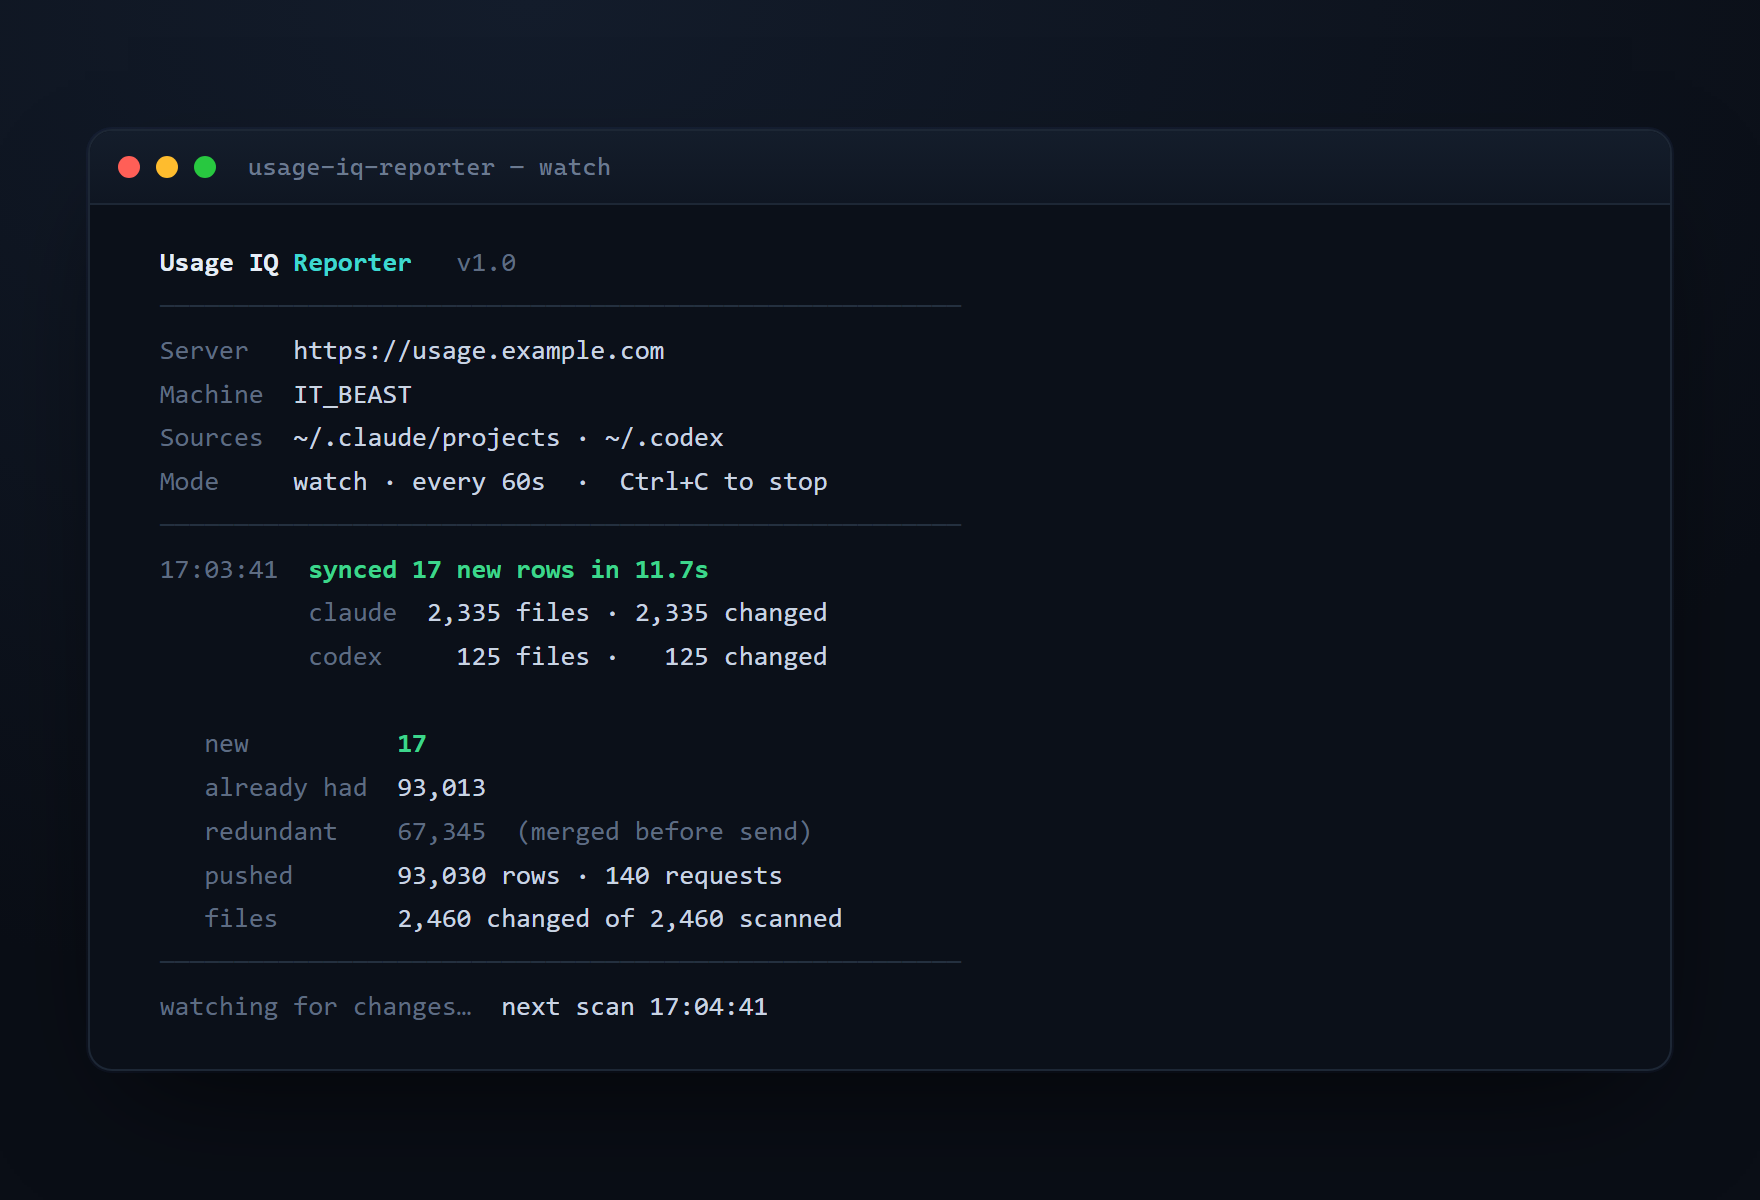
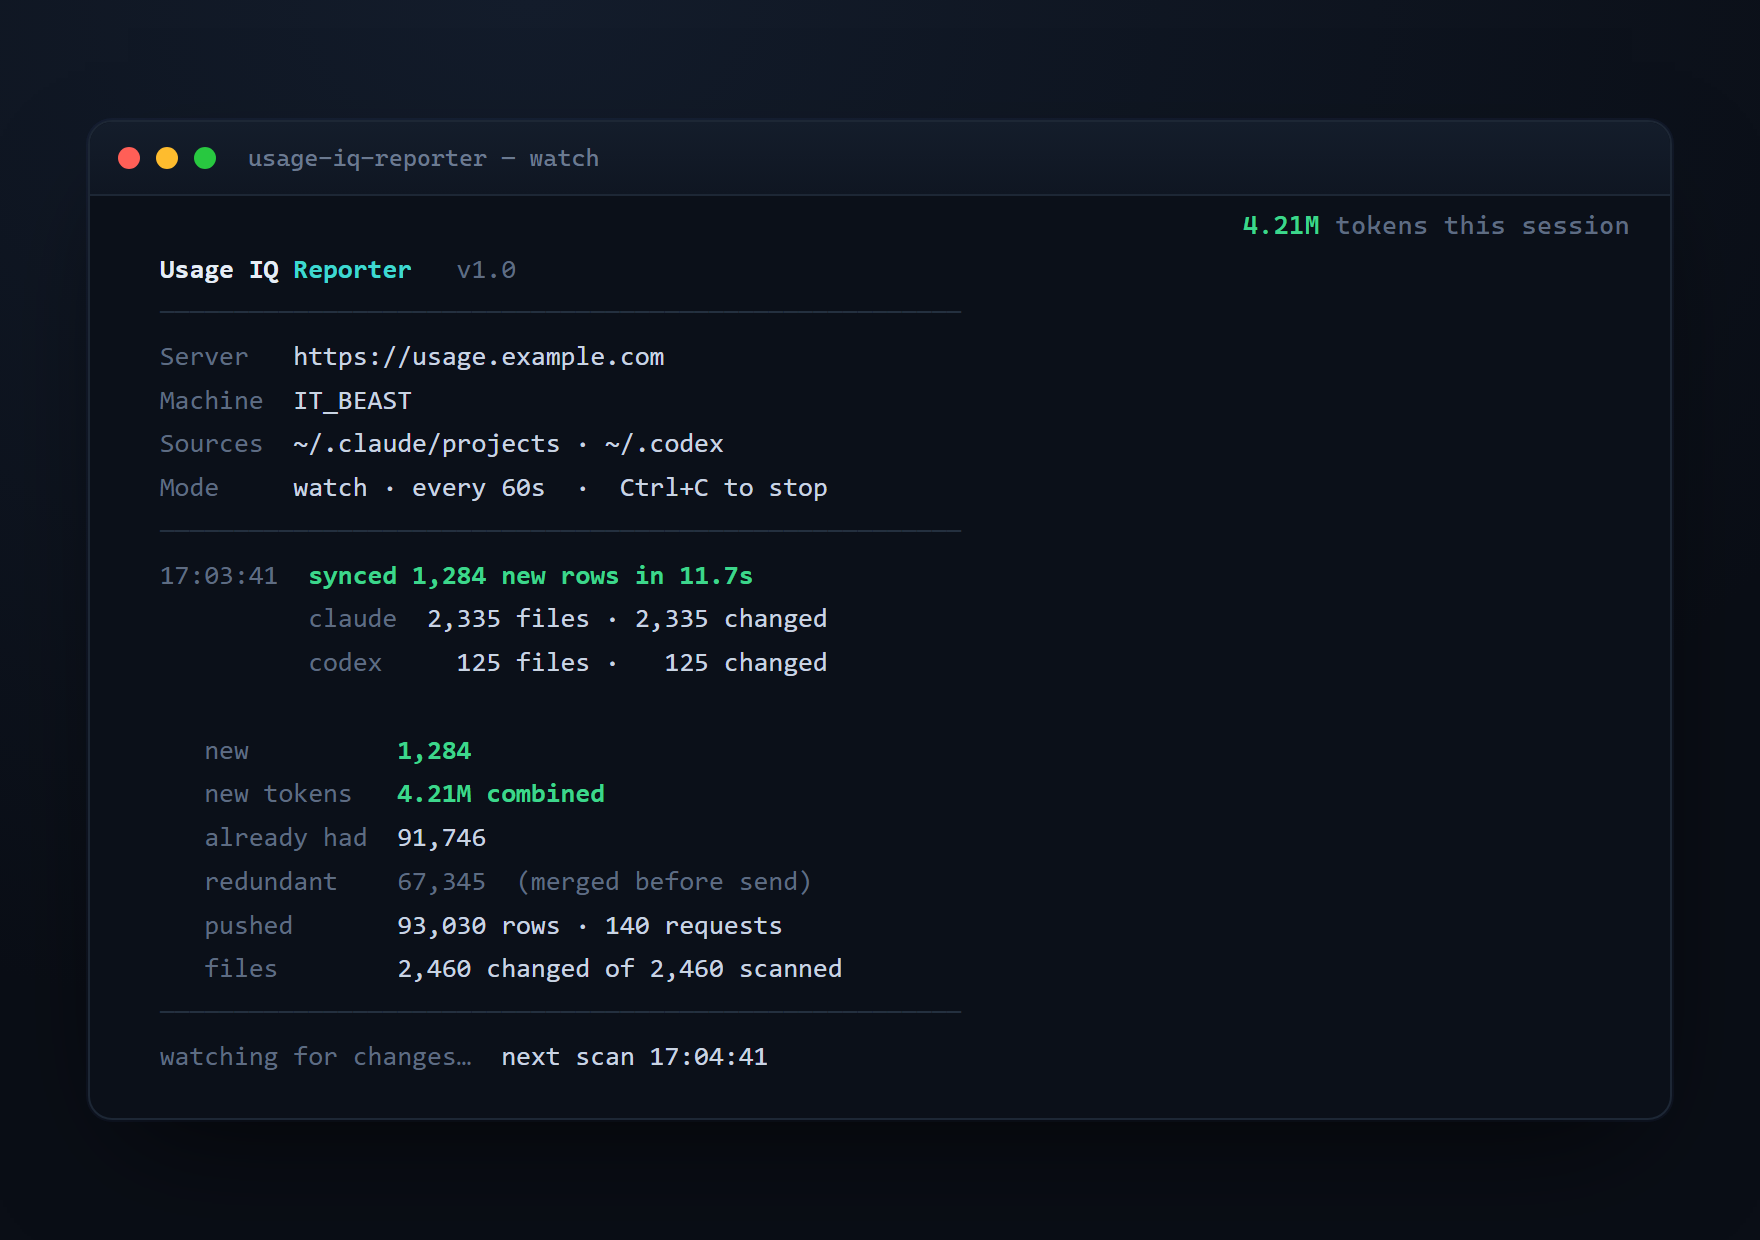
Add live top-right token counter to the reporter
The reporter now pins a combined-token counter to the top-right of the
console — the sum of input/output/all-cache-tier tokens newly ingested
this session, ticking up live as new usage is pushed. Implemented as a
reserved, non-scrolling status row (VT scroll-region; enabled via
SetConsoleMode on Windows, native elsewhere) with graceful fallback to
the window title when the terminal can't do VT, and a clean reset on exit.
It counts only what's actually added to the dashboard, so duplicates and
redundant lines don't inflate it.

- Server: POST /api/ingest now returns insertedTokens (combined tokens of
  the rows actually inserted), threaded through InsertNewAsync/per-row.
- Reporter: accumulates it into the HUD live per batch and a "new tokens"
  summary line.
- Tests: assert insertedTokens (193 green); verified live (160-token row
  → insertedTokens:160). Screenshots refreshed to show the HUD.

diff --git a/src/Reporter/ReporterConsole.cs b/src/Reporter/ReporterConsole.cs
@@ -1,15 +1,101 @@
 using System.Globalization;
+using System.Runtime.InteropServices;
 
 namespace Ccusage.Reporter;
 
 /// <summary>
-/// Friendly, colorized console output for the reporter. When stdout is redirected (piped to a file
-/// or captured), it drops the colors and the in-place "live" line so the captured log stays clean.
+/// Friendly, colorized console output for the reporter, plus a live "tokens this session" counter
+/// pinned to the top-right via a reserved (non-scrolling) status row. When stdout is redirected, it
+/// drops the colors, the in-place "live" line, and the HUD so captured logs stay clean.
 /// </summary>
-public sealed class ReporterConsole
+public sealed class ReporterConsole : IDisposable
 {
     private readonly bool _plain = Console.IsOutputRedirected;
     private bool _liveOpen;
+
+    // ---- top-right token HUD (a reserved, non-scrolling status row) ----
+    private bool _hud;
+    private long _tokens;
+    private nint _stdout;
+    private uint _origMode;
+
+    public ReporterConsole()
+    {
+        if (_plain) return;
+        try { StartHud(); } catch { _hud = false; }
+    }
+
+    private void StartHud()
+    {
+        // Enable VT processing on Windows so the scroll-region/SGR escapes render; other OSes do natively.
+        if (OperatingSystem.IsWindows())
+        {
+            _stdout = GetStdHandle(STD_OUTPUT_HANDLE);
+            if (!GetConsoleMode(_stdout, out _origMode) || !SetConsoleMode(_stdout, _origMode | ENABLE_VT))
+                return; // can't do VT — skip the HUD (plain output still works)
+        }
+
+        int h;
+        try { h = Console.WindowHeight; } catch { return; }
+        if (h < 6) return; // too short to spare a status row
+
+        Console.Write($"\x1b[2;{h}r"); // reserve row 1: scroll region becomes rows 2..h
+        Console.Write("\x1b[2;1H");    // move below the status row so all output scrolls under it
+        _hud = true;
+        RenderHud();
+        AppDomain.CurrentDomain.ProcessExit += (_, _) => ResetHud();
+    }
+
+    /// <summary>Add to the live "tokens this session" counter shown top-right.</summary>
+    public void AddTokens(long delta)
+    {
+        _tokens += Math.Max(0, delta);
+        if (_hud) RenderHud();
+        try { Console.Title = $"Usage IQ · {FormatTokens(_tokens)} tokens"; } catch { /* not all hosts allow it */ }
+    }
+
+    private void RenderHud()
+    {
+        try
+        {
+            var w = Console.WindowWidth;
+            var num = FormatTokens(_tokens);
+            var visible = $"{num} tokens this session ";
+            var col = Math.Max(1, w - visible.Length);
+            Console.Write("\x1b7\x1b[1;1H\x1b[2K");                                  // save cursor, home row 1, clear
+            Console.Write($"\x1b[1;{col}H");                                         // right-align in the status row
+            Console.Write($"\x1b[92m{num}\x1b[0;90m tokens this session \x1b[0m");
+            Console.Write("\x1b8");                                                  // restore cursor
+        }
+        catch { /* transient terminal hiccup — skip this frame */ }
+    }
+
+    private void ResetHud()
+    {
+        if (!_hud) return;
+        _hud = false;
+        try
+        {
+            Console.Write("\x1b[r"); // release the scroll region
+            try { Console.Write($"\x1b[{Console.WindowHeight};1H"); } catch { /* ignore */ }
+            Console.Write("\n");
+            if (OperatingSystem.IsWindows() && _stdout != 0) SetConsoleMode(_stdout, _origMode);
+        }
+        catch { /* ignore */ }
+    }
+
+    public void Dispose() => ResetHud();
+
+    /// <summary>Compact token formatting: 842, 12.3K, 4.21M, 1.05B.</summary>
+    public static string FormatTokens(long n)
+    {
+        if (n < 1000) return n.ToString(CultureInfo.InvariantCulture);
+        if (n < 1_000_000) return (n / 1000.0).ToString("0.#", CultureInfo.InvariantCulture) + "K";
+        if (n < 1_000_000_000) return (n / 1_000_000.0).ToString("0.##", CultureInfo.InvariantCulture) + "M";
+        return (n / 1_000_000_000.0).ToString("0.##", CultureInfo.InvariantCulture) + "B";
+    }
+
+    // ---- structured output ----
 
     private static string Now() => DateTime.Now.ToString("HH:mm:ss", CultureInfo.InvariantCulture);
 
@@ -102,4 +188,11 @@ public sealed class ReporterConsole
     }
 
     private void WriteLine(string s = "", ConsoleColor? c = null) { Write(s, c); Console.WriteLine(); }
+
+    // ---- Win32 VT enable ----
+    private const int STD_OUTPUT_HANDLE = -11;
+    private const uint ENABLE_VT = 0x0004;
+    [DllImport("kernel32.dll", SetLastError = true)] private static extern nint GetStdHandle(int nStdHandle);
+    [DllImport("kernel32.dll", SetLastError = true)] private static extern bool GetConsoleMode(nint handle, out uint mode);
+    [DllImport("kernel32.dll", SetLastError = true)] private static extern bool SetConsoleMode(nint handle, uint mode);
 }

diff --git a/src/Api/Ingestion/IngestWriteService.cs b/src/Api/Ingestion/IngestWriteService.cs
@@ -75,7 +75,7 @@ public sealed class IngestWriteService(UsageDbContext db, ILogger<IngestWriteSer
             pending.Add(UsageRecordMapper.Map(pu, source, cwd, projectId, fileId, tz, pricing));
         }
 
-        var inserted = await InsertNewAsync(pending, ct);
+        var (inserted, insertedTokens) = await InsertNewAsync(pending, ct);
 
         if (inserted > 0)
             await db.IngestedFiles.Where(f => f.Id == fileId).ExecuteUpdateAsync(s => s
@@ -83,6 +83,7 @@ public sealed class IngestWriteService(UsageDbContext db, ILogger<IngestWriteSer
                 .SetProperty(f => f.LastSyncUtc, _ => DateTime.UtcNow), ct);
 
         result.Inserted = inserted;
+        result.InsertedTokens = insertedTokens;                      // combined tokens of the new rows
         result.Duplicates = existing.Count;                          // valid keys already in the DB
         result.Skipped = Math.Max(0, result.Received - inserted - existing.Count); // malformed + within-batch + DB-rejected
         result.UnpricedModels = pricing.UnpricedModels.OrderBy(m => m).ToArray();
@@ -97,9 +98,9 @@ public sealed class IngestWriteService(UsageDbContext db, ILogger<IngestWriteSer
     /// error (e.g. a single value that won't fit a column), fall back to per-row inserts so one bad
     /// row can never poison the whole batch.
     /// </summary>
-    private async Task<int> InsertNewAsync(List<UsageRecord> pending, CancellationToken ct)
+    private async Task<(int Count, long Tokens)> InsertNewAsync(List<UsageRecord> pending, CancellationToken ct)
     {
-        if (pending.Count == 0) return 0;
+        if (pending.Count == 0) return (0, 0);
         var remaining = pending;
 
         for (var attempt = 1; attempt <= 3; attempt++)
@@ -108,7 +109,7 @@ public sealed class IngestWriteService(UsageDbContext db, ILogger<IngestWriteSer
             {
                 db.UsageRecords.AddRange(remaining);
                 await db.SaveChangesAsync(ct);
-                return remaining.Count;                              // AddRange+SaveChanges is atomic
+                return (remaining.Count, remaining.Sum(TokensOf));   // AddRange+SaveChanges is atomic
             }
             catch (DbUpdateException ex) when (IsUniqueViolation(ex) && attempt < 3)
             {
@@ -120,7 +121,7 @@ public sealed class IngestWriteService(UsageDbContext db, ILogger<IngestWriteSer
                         .Where(r => keys.Contains(r.DedupKey)).Select(r => r.DedupKey).ToListAsync(ct))
                     .ToHashSet(StringComparer.Ordinal);
                 remaining = remaining.Where(p => !now.Contains(p.DedupKey)).ToList();
-                if (remaining.Count == 0) return 0;
+                if (remaining.Count == 0) return (0, 0);
             }
             catch (DbUpdateException ex)
             {
@@ -135,9 +136,10 @@ public sealed class IngestWriteService(UsageDbContext db, ILogger<IngestWriteSer
     }
 
     /// <summary>Last-resort insert: one row per SaveChanges, dropping any row the DB rejects.</summary>
-    private async Task<int> InsertPerRowAsync(List<UsageRecord> rows, CancellationToken ct)
+    private async Task<(int Count, long Tokens)> InsertPerRowAsync(List<UsageRecord> rows, CancellationToken ct)
     {
         var ok = 0;
+        long tokens = 0;
         foreach (var r in rows)
         {
             try
@@ -145,15 +147,20 @@ public sealed class IngestWriteService(UsageDbContext db, ILogger<IngestWriteSer
                 db.UsageRecords.Add(r);
                 await db.SaveChangesAsync(ct);
                 ok++;
+                tokens += TokensOf(r);
             }
             catch (DbUpdateException) { /* genuinely bad row or lost a race — drop it, keep going */ }
             finally { db.ChangeTracker.Clear(); }
         }
-        return ok;
+        return (ok, tokens);
     }
 
     private static bool IsUniqueViolation(DbUpdateException ex) =>
         ex.InnerException is Npgsql.PostgresException pg && pg.SqlState == Npgsql.PostgresErrorCodes.UniqueViolation;
+
+    /// <summary>Combined token count of a row (all input/output/cache tiers).</summary>
+    private static long TokensOf(UsageRecord r) =>
+        (long)r.InputTokens + r.OutputTokens + r.CacheReadTokens + r.CacheCreation5mTokens + r.CacheCreation1hTokens;
 
     private async Task<int> GetOrCreateProjectAsync(string cwd, Dictionary<string, int> cache, CancellationToken ct)
     {

diff --git a/src/Reporter/LogScanner.cs b/src/Reporter/LogScanner.cs
@@ -20,6 +20,9 @@ public sealed class ScanSummary
     public int Duplicates { get; set; }
     public int Skipped { get; set; }
 
+    /// <summary>Combined token count (all tiers) of the rows newly inserted this pass.</summary>
+    public long InsertedTokens { get; set; }
+
     public long ElapsedMs { get; set; }
     public HashSet<string> Unpriced { get; } = new(StringComparer.Ordinal);
 
@@ -123,10 +126,12 @@ public sealed class LogScanner(IngestClient client, FileStateStore state, int ba
                 var res = await client.PushAsync(kind, chunk, ct);
                 summary.Sent += res.Received;
                 summary.Inserted += res.Inserted;
+                summary.InsertedTokens += res.InsertedTokens;
                 summary.Duplicates += res.Duplicates;
                 summary.Skipped += res.Skipped;
                 summary.Requests++;
                 if (res.UnpricedModels is { } um) foreach (var m in um) summary.Unpriced.Add(m);
+                ui.AddTokens(res.InsertedTokens); // feed the live top-right token counter
                 ui.Live($"pushing {kind} — {summary.Requests:N0} requests, {summary.Sent:N0} rows, {summary.Inserted:N0} new");
             }
         }

diff --git a/src/Reporter/IngestClient.cs b/src/Reporter/IngestClient.cs
@@ -12,7 +12,7 @@ public sealed class FatalReporterException(string message) : Exception(message);
 public sealed record IngestBatch(string Source, string Machine, string Reporter, IReadOnlyList<ParsedUsage> Rows);
 
 /// <summary>Server's response to an ingest batch.</summary>
-public sealed record IngestResult(int Received, int Inserted, int Duplicates, int Skipped, string[]? UnpricedModels);
+public sealed record IngestResult(int Received, int Inserted, long InsertedTokens, int Duplicates, int Skipped, string[]? UnpricedModels);
 
 /// <summary>
 /// Posts batches to the Usage IQ ingest endpoint with the <c>X-Ingest-Key</c> credential. Transient
@@ -59,7 +59,7 @@ public sealed class IngestClient : IDisposable
 
                 resp.EnsureSuccessStatusCode(); // 4xx (other than 401/403/429) → surface as error
                 return await resp.Content.ReadFromJsonAsync<IngestResult>(Json, ct)
-                       ?? new IngestResult(rows.Count, 0, 0, 0, null);
+                       ?? new IngestResult(rows.Count, 0, 0, 0, 0, null);
             }
             catch (Exception ex) when (ex is HttpRequestException or TaskCanceledException && !ct.IsCancellationRequested)
             {

diff --git a/src/Reporter/Program.cs b/src/Reporter/Program.cs
@@ -58,7 +58,7 @@ if (invalid is not null)
     return 2;
 }
 
-var ui = new ReporterConsole();
+using var ui = new ReporterConsole(); // disposing releases the reserved HUD row + restores the console
 
 ui.Banner(Version);
 ui.Config("Server", opt.Url!);
@@ -112,6 +112,7 @@ async Task<int> RunPassAsync()
             ui.Summary(new[]
             {
                 ("new",         s.Inserted.ToString("N0", CultureInfo.InvariantCulture),    s.Inserted > 0 ? ConsoleColor.Green : g),
+                ("new tokens",  ReporterConsole.FormatTokens(s.InsertedTokens) + " combined", s.InsertedTokens > 0 ? ConsoleColor.Green : g),
                 ("already had", s.Duplicates.ToString("N0", CultureInfo.InvariantCulture),  g),
                 ("redundant",   $"{s.Redundant:N0}  (merged before send)",                  ConsoleColor.DarkGray),
                 ("pushed",      $"{s.Sent:N0} rows · {s.Requests:N0} request{(s.Requests == 1 ? "" : "s")}", g),

diff --git a/src/Api/Dtos/IngestDtos.cs b/src/Api/Dtos/IngestDtos.cs
@@ -25,6 +25,8 @@ public sealed class IngestResultDto
 {
     public int Received { get; set; }
     public int Inserted { get; set; }
+    /// <summary>Combined token count (all tiers) of the rows actually inserted.</summary>
+    public long InsertedTokens { get; set; }
     /// <summary>Rows whose key already existed in the DB.</summary>
     public int Duplicates { get; set; }
     /// <summary>Rows dropped before/at insert: malformed, collapsed within-batch, or DB-rejected.</summary>

diff --git a/tests/Ccusage.Api.Tests/Integration/IngestIntegrationTests.cs b/tests/Ccusage.Api.Tests/Integration/IngestIntegrationTests.cs
@@ -95,6 +95,7 @@ public class IngestIntegrationTests(WebAppFactory factory)
         var r1 = await first.Content.ReadFromJsonAsync<JsonElement>();
         r1.GetProperty("received").GetInt32().Should().Be(2);
         r1.GetProperty("inserted").GetInt32().Should().Be(2);
+        r1.GetProperty("insertedTokens").GetInt64().Should().Be(3400); // 2 rows × (1000+500+200) combined tokens
 
         using (var scope = factory.Services.CreateScope())
         {

diff --git a/docs/reporter.md b/docs/reporter.md
@@ -119,6 +119,9 @@ When it watches, only changed files do any work, so steady-state passes are chea
   ~40%). This is why a pass "skips" rows: it's redundancy, not lost data.
 - **Cross-file batching.** Distinct rows are coalesced across files into batches (`--batch`), so a
   backfill of thousands of small files is ~`rows/batch` requests, not one per file.
+- **Live token counter.** A pinned top-right HUD shows the combined token count (input + output +
+  every cache tier) of the rows *newly ingested this session*, ticking up as new usage is pushed. It
+  reflects what's actually added to the dashboard — duplicates and redundant lines don't inflate it.
 - **Privacy.** Only `ParsedUsage` (timestamp, model, token counts, session id, `cwd`, git branch,
   sidechain flag, version) is sent. No prompt or response text ever leaves the machine.
 

diff --git a/README.md b/README.md
@@ -180,7 +180,7 @@ usage-iq-reporter --url https://usage.example.com --key uiq_… --once     # sin
 
 On Windows, [`Run-UsageIqReporter.ps1`](Run-UsageIqReporter.ps1) is a one-file "build + run the loop" launcher (asks for the key once, then it's a double-click).
 
-The reporter de-dupes locally before sending (one billed turn spans several identical-key log lines — that's the `redundant` count), coalesces rows across files into batches, and tracks per-file state so steady-state passes are cheap. Only parsed token counts/metadata are sent; the ingest key grants *write-only* access to `/api/ingest` and nothing else.
+The reporter de-dupes locally before sending (one billed turn spans several identical-key log lines — that's the `redundant` count), coalesces rows across files into batches, tracks per-file state so steady-state passes are cheap, and pins a **live combined-token counter** to the top-right (tokens newly ingested this session). Only parsed token counts/metadata are sent; the ingest key grants *write-only* access to `/api/ingest` and nothing else.
 
 **Full guides** — install, flags, run-as-a-service, cloud hosting, the ingest API, and all config — are in **[docs/](docs/)**: [Reporter](docs/reporter.md) · [Cloud hosting](docs/cloud-hosting.md) · [Ingest API](docs/ingest-api.md) · [Configuration](docs/configuration.md).
 